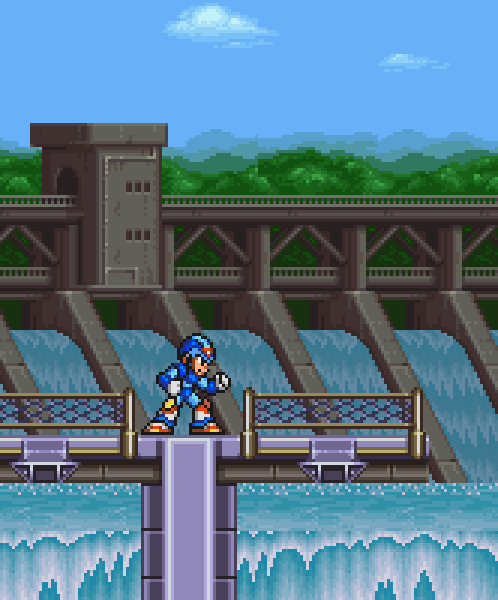
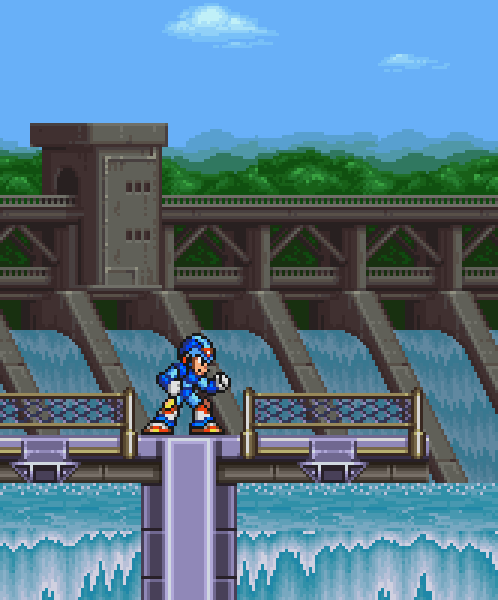
Generalized to a class.

diff --git a/cycle.py b/cycle.py
@@ -1,12 +1,15 @@
 import os
 import sys
-
 import pygame as pg
 
 
-FALL_1 = [(32,136,168), (48,144,168), (72,152,176), (96,160,184), (120,168,192),
-          (136,176,200), (160,184,208), (184,192,216), (208,208,224)]
-CYCLE = {color:FALL_1[(i-1)%len(FALL_1)] for i,color in enumerate(FALL_1)}
+#These are the color cycles that will be used.
+LOW = [(32,136,168), (48,144,168), (72,152,176), (96,160,184), (120,168,192),
+       (136,176,200), (160,184,208), (184,192,216), (208,208,224)]
+
+HIGH = [(80, 128,152), (96,136,160), (56,120,144)]
+
+FOAM = [(184,192,216), (48,144,169)]
 
 
 class Control(object):
@@ -21,34 +24,58 @@ class Control(object):
         self.timer = 0.0
         self.done = False
         self.image = pg.image.load("mega.png").convert(8)
+        cycles = [Cycle(self.image.subsurface(0,507,498,93),(0,507),LOW),
+                  Cycle(self.image.subsurface(0,330,498,153), (0,330),
+                        HIGH, fps=10),
+                  Cycle(self.image.subsurface(0,483,498,12), (0,483), FOAM)]
+        self.cycles = pg.sprite.Group(cycles)
 
     def event_loop(self):
         for event in pg.event.get():
             if event.type == pg.QUIT:
                 self.done = True
 
-    def cycle(self):
-        palette = list(self.image.get_palette())
-        for i,color in enumerate(palette):
-            palette[i] = pg.Color(*CYCLE.get(color[:3], color))
-        self.image.set_palette(palette)
-
     def update(self):
-        now = pg.time.get_ticks()
-        if now-self.timer > 1000.0/self.cycle_fps:
-            self.cycle()
-            self.timer = now
+        self.cycles.update(pg.time.get_ticks())
 
     def draw(self):
-        self.screen.blit(self.image, (0,0))
+        self.cycles.draw(self.screen)
 
     def main_loop(self):
+        self.screen.blit(self.image, (0,0))
         while not self.done:
             self.event_loop()
             self.update()
             self.draw()
             pg.display.update()
             self.clock.tick(self.fps)
+
+
+class Cycle(pg.sprite.Sprite):
+    def __init__(self, image, pos, color_cycle, fps=20, *groups):
+        pg.sprite.Sprite.__init__(self, *groups)
+        self.image = image
+        self.rect = self.image.get_rect(topleft=pos)
+        self.palette = list(self.image.get_palette())
+        self.cycle = self.make_cycle(color_cycle)
+        self.fps = fps
+        self.timer = pg.time.get_ticks()
+
+    def make_cycle(self, cycle):
+        return {color:cycle[(i-1)%len(cycle)] for i,color in enumerate(cycle)}
+
+    def advance_cycle(self):
+        for i,color in enumerate(self.palette):
+            self.palette[i] = pg.Color(*self.cycle.get(color[:3], color))
+        self.image.set_palette(self.palette)
+
+    def update(self, now):
+        if now-self.timer > 1000.0/self.fps:
+            self.advance_cycle()
+            self.timer = now
+
+    def draw(self, surface):
+        surface.blit(self.image, self.rect)
 
 
 if __name__ == "__main__":
